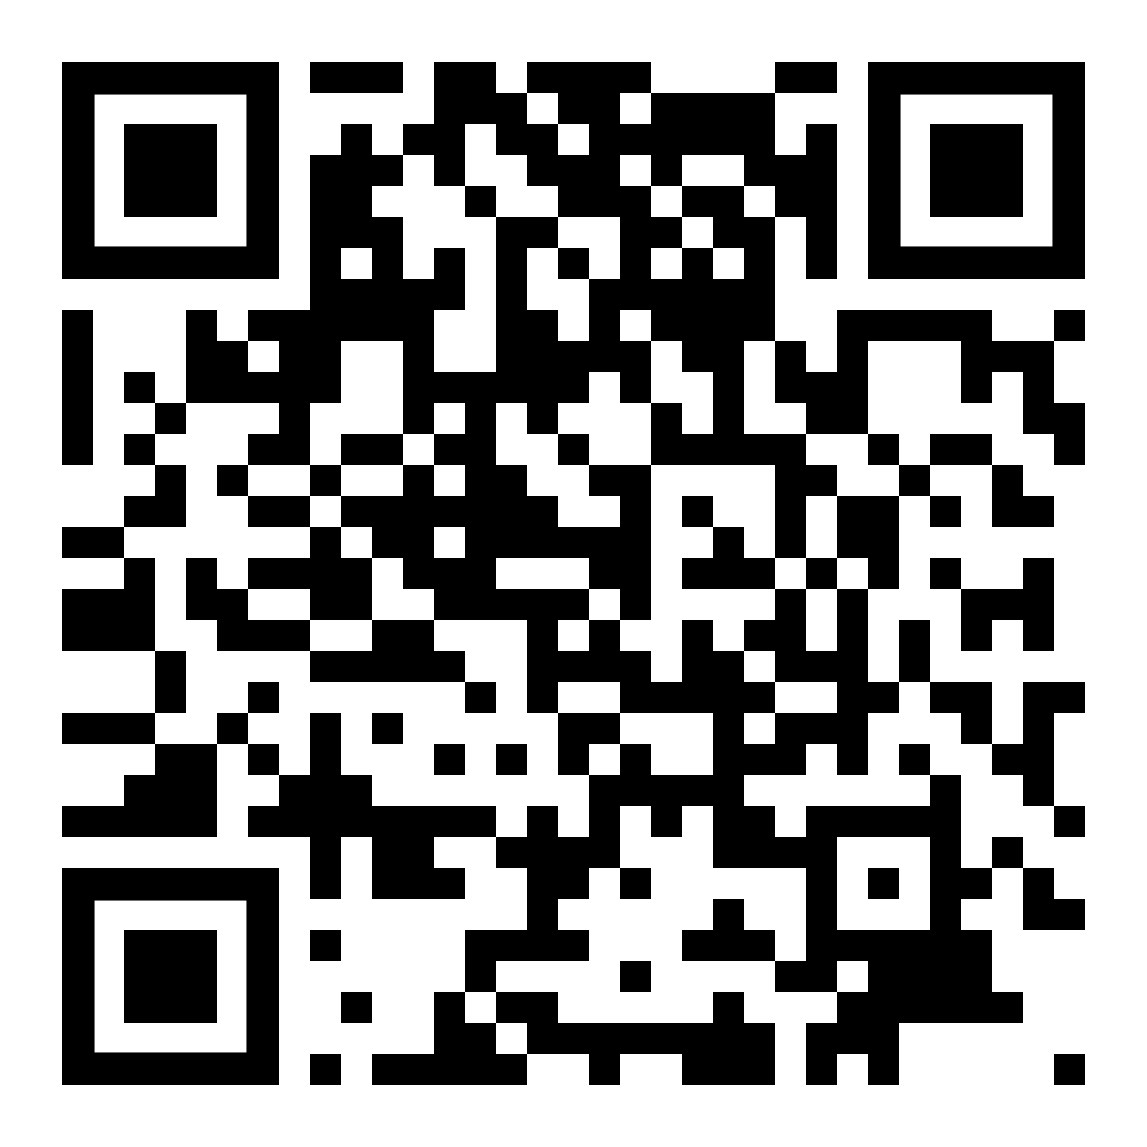
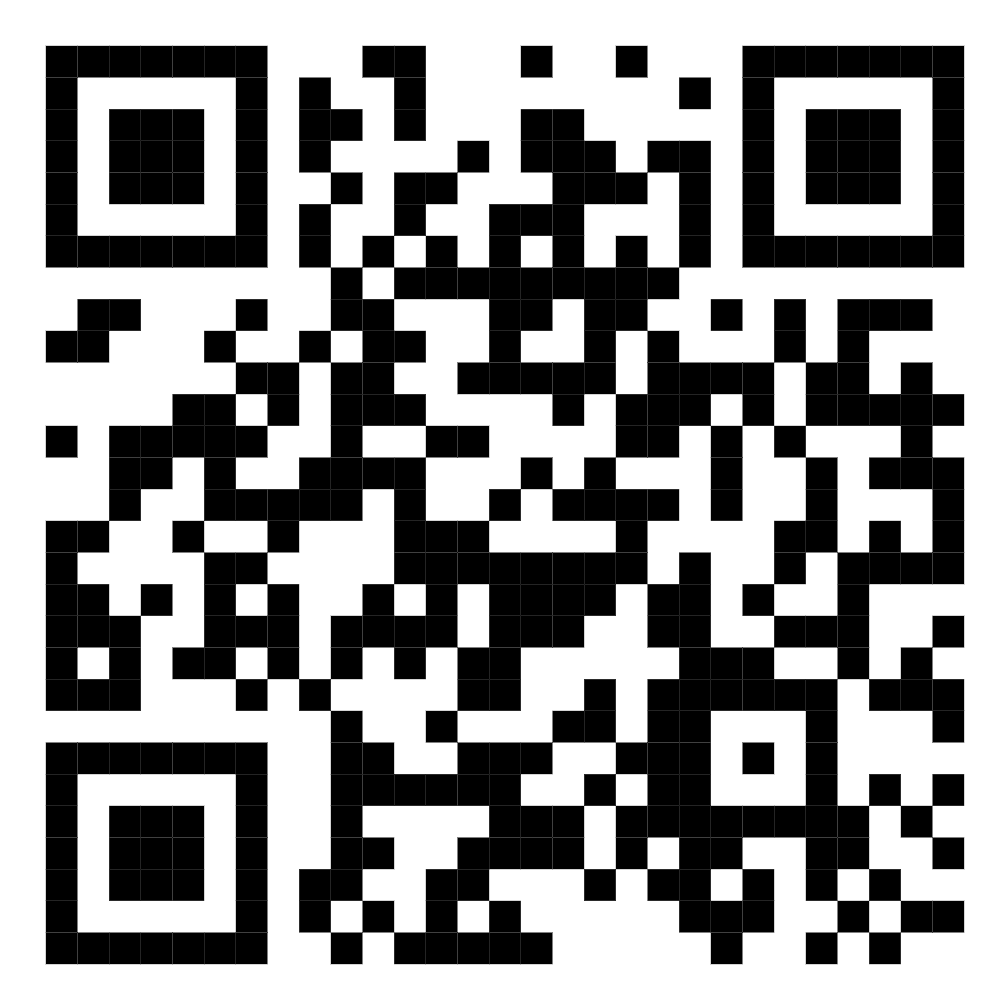
slide link fix

diff --git a/slides/pgconf-eu-2026-config/slides/slides.md b/slides/pgconf-eu-2026-config/slides/slides.md
@@ -517,6 +517,6 @@ On Tue, 07 Jul 2026, Tristan Partin wrote:
 
 **zsolt.parragi@percona.com**
 
-*Slides: [https://dutow.github.io/slides/pgconf-eu-2026-config/](https://dutow.github.io/pgconf-eu-2026-config/)*
+*Slides: [https://dutow.github.io/slides/pgconf-eu-2026-config/](https://dutow.github.io/slides/pgconf-eu-2026-config/)*
 
 <img src="img/qr-code.png" class="r-stretch">
